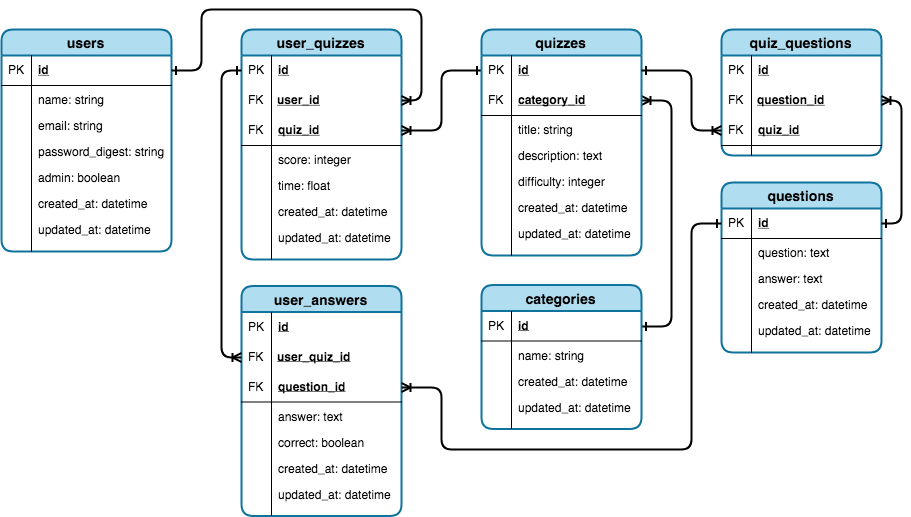
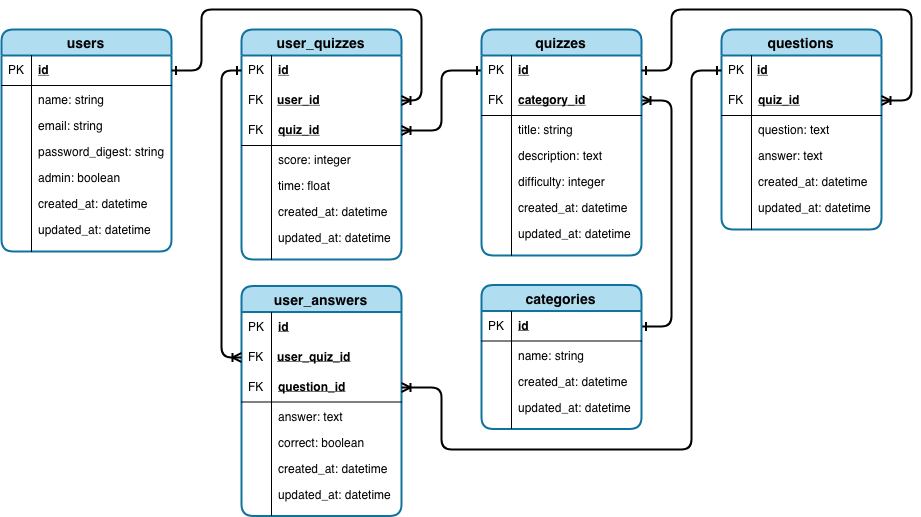
Revise database tables

diff --git a/sequelize.js b/sequelize.js
@@ -7,7 +7,6 @@ const UserQuizModel = require('./models/user_quiz');
 const UserAnswerModel = require('./models/user_answer');
 const QuizModel = require('./models/quiz');
 const CategoryModel = require('./models/category');
-const QuizQuestionModel = require('./models/quiz_question');
 const QuestionModel = require('./models/question');
 
 const sequelize = new Sequelize('database', 'username', 'password', {
@@ -29,26 +28,24 @@ const sequelize = new Sequelize('database', 'username', 'password', {
   const UserAnswer = UserAnswerModel(sequelize, Sequelize);
   const Quiz = QuizModel(sequelize, Sequelize);
   const Category = CategoryModel(sequelize, Sequelize);
-  const QuizQuestion = QuizQuestionModel(sequelize, Sequelize);
   const Question = QuestionModel(sequelize, Sequelize);
 
 
 
   // M - M
-  User.belongsToMany(Quiz, {through: UserQuiz});
+  User.belongsToMany(Quiz, {through: UserQuiz}); // Problem: (user_id, quiz_id) UNIQUE
   Quiz.belongsToMany(User, {through: UserQuiz});
   // M - M
   UserQuiz.belongsToMany(Question, {through: UserAnswer});
   Question.belongsToMany(UserQuiz, {through: UserAnswer});
-  // M - M
-  Quiz.belongsToMany(Question, {through: QuizQuestion});
-  Question.belongsToMany(Quiz, {through: QuizQuestion});
+  // 1 - M
+  Quiz.hasMany(Question)
   // 1 - M
   Category.hasMany(Quiz);
   // 1 - M
   UserQuiz.hasMany(UserAnswer); // Confirm cascade to UA on delete
 
-  // force: true will drop the table if it already exists
+  // // force: true will drop the table if it already exists
   // sequelize.sync({ force: true }).then(() => {
   //   console.log("Database and tables created");
   //   // return User.create({
@@ -64,6 +61,5 @@ const sequelize = new Sequelize('database', 'username', 'password', {
     UserAnswer,
     Quiz,
     Category,
-    QuizQuestion,
     Question
   };
